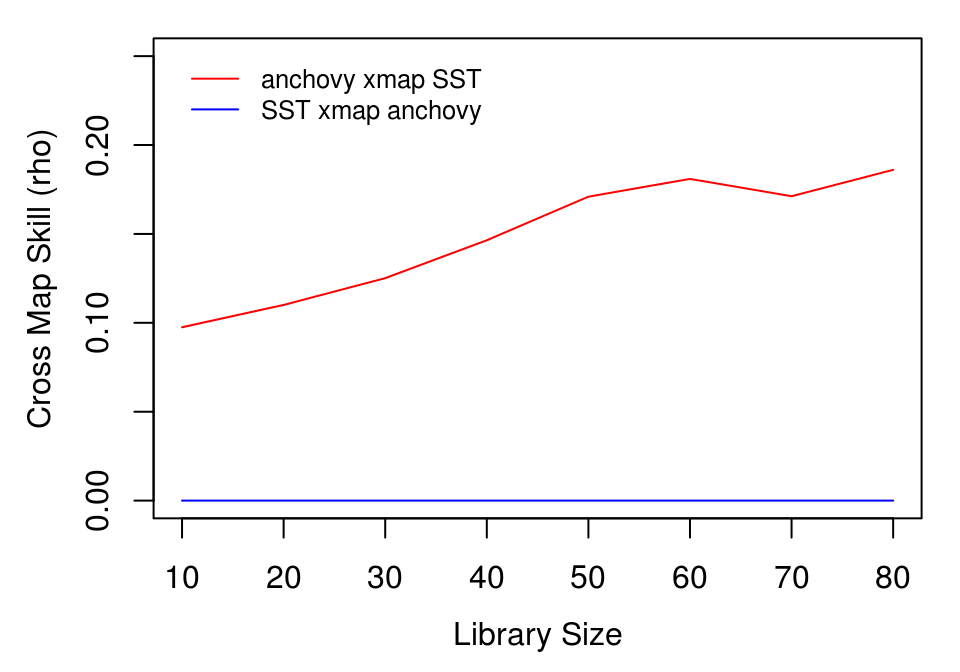
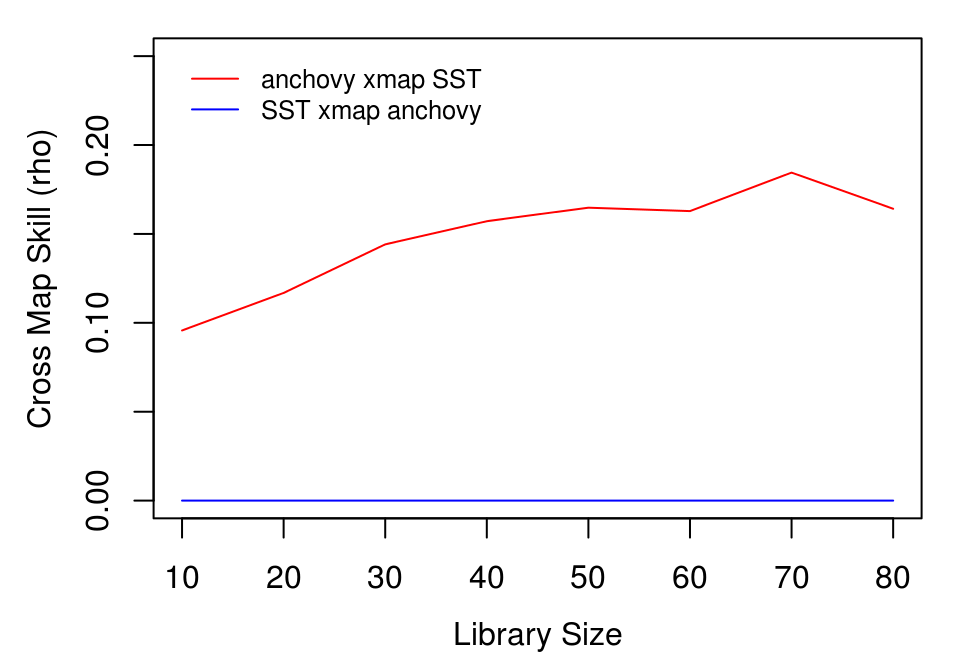
Deploy ha0ye/rEDM to github.com/ha0ye/rEDM.git:gh-pages

diff --git a/articles/rEDM.html b/articles/rEDM.html
@@ -487,9 +487,9 @@
 ##  $ target_column: Factor w/ 1 level "np_sst": 1 1 1 1 1 1 1 1 1 1 ...
 ##  $ lib_size     : num  10 10 10 10 10 10 10 10 10 10 ...
 ##  $ num_pred     : num  76 76 76 76 76 76 76 76 76 76 ...
-##  $ rho          : num  0.244 0.113 -0.105 0.11 0.211 ...
-##  $ mae          : num  0.807 0.91 0.888 0.988 0.87 ...
-##  $ rmse         : num  0.998 1.15 1.101 1.28 1.09 ...</code></pre>
+##  $ rho          : num  0.0384 0.097 0.0199 0.1583 -0.2646 ...
+##  $ mae          : num  0.9 0.883 0.961 0.823 0.979 ...
+##  $ rmse         : num  1.15 1.09 1.16 1.02 1.19 ...</code></pre>
 <p>The output is a data.frame with statistics for each model run (in this case, 100 models at each of 8 library sizes). To interpret the results, we aggregate the cross map performance at each library size using the <code><a href="../reference/ccm_means.html">ccm_means()</a></code> function, which computes a mean value at each unique <code>lib_size</code>. Because average cross map skill less than 0 means there is no prediction skill, (predictions should not be anticorrelated with observations), we set negative values to 0 when plotting.</p>
 <div class="sourceCode" id="cb35"><pre class="sourceCode r"><code class="sourceCode r"><a class="sourceLine" id="cb35-1" data-line-number="1">a_xmap_t_means &lt;-<span class="st"> </span><span class="kw"><a href="../reference/ccm_means.html">ccm_means</a></span>(anchovy_xmap_sst)</a>
 <a class="sourceLine" id="cb35-2" data-line-number="2">t_xmap_a_means &lt;-<span class="st"> </span><span class="kw"><a href="../reference/ccm_means.html">ccm_means</a></span>(sst_xmap_anchovy)</a>
